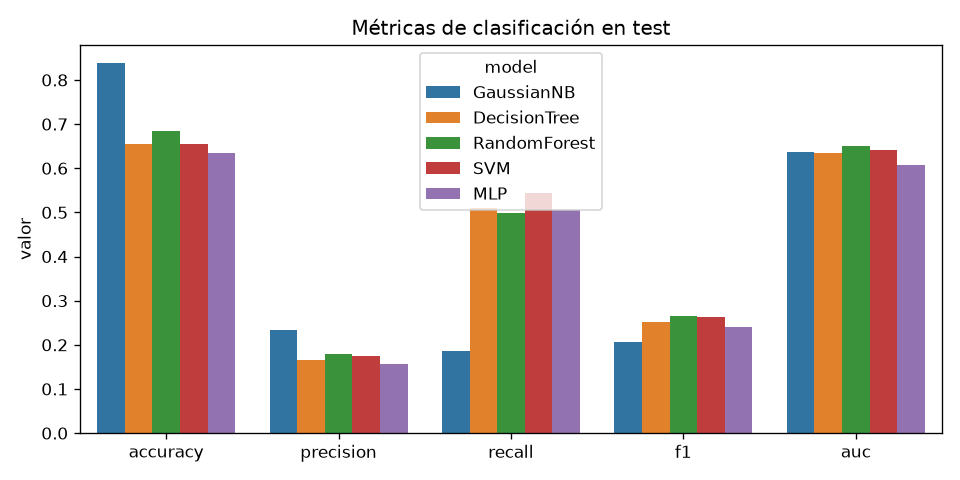
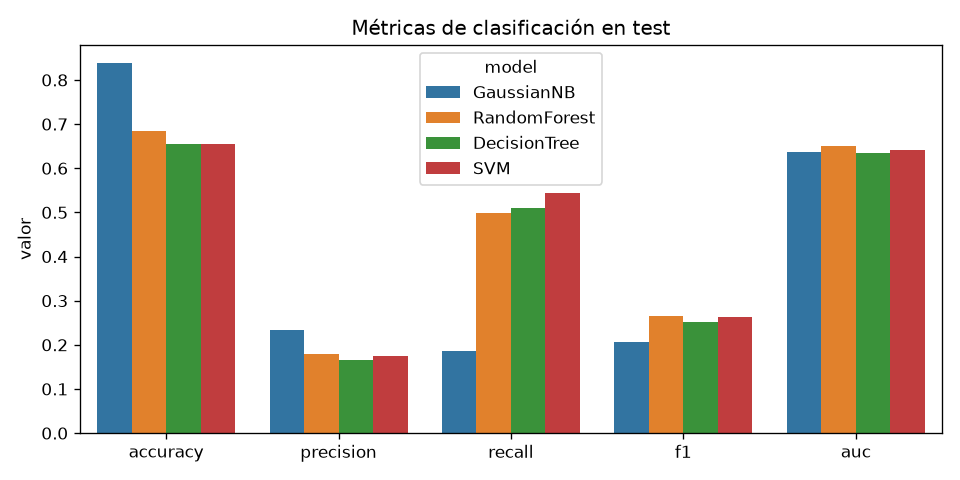
Eliminar la red neuronal (MLP)
Se quita BalancedMLP, su cuadrícula, la curva de pérdida y sus gráficas;
se actualizan app, notebook 03 y figuras regeneradas con train.py.

diff --git a/src/models.py b/src/models.py
@@ -1,6 +1,5 @@
-"""Clasificadores (4 clásicos + MLP), regresores (3), búsqueda de hiperparámetros y CV."""
+"""Clasificadores (4 clásicos), regresores (3), búsqueda de hiperparámetros y CV."""
 
-import numpy as np
 import pandas as pd
 from sklearn.ensemble import RandomForestClassifier, RandomForestRegressor
 from sklearn.model_selection import (
@@ -10,7 +9,6 @@ from sklearn.model_selection import (
     cross_val_score,
 )
 from sklearn.naive_bayes import GaussianNB
-from sklearn.neural_network import MLPClassifier
 from sklearn.pipeline import Pipeline
 from sklearn.svm import SVC, SVR
 from sklearn.tree import DecisionTreeClassifier, DecisionTreeRegressor
@@ -24,7 +22,6 @@ PARAM_GRIDS = {
     "DecisionTree": {"clf__max_depth": [3, 5, 8], "clf__min_samples_leaf": [20, 50]},
     "RandomForest": {"clf__n_estimators": [100, 200], "clf__min_samples_leaf": [10, 20, 40]},
     "SVM": {"clf__C": [0.5, 1.0, 2.0]},
-    "MLP": {"clf__alpha": [1e-4, 1e-2], "clf__hidden_layer_sizes": [(64, 32), (32, 16)]},
     "DecisionTreeRegressor": {"clf__max_depth": [3, 5, 8], "clf__min_samples_leaf": [20, 50]},
     "RandomForestRegressor": {
         "clf__n_estimators": [100, 200],
@@ -34,29 +31,13 @@ PARAM_GRIDS = {
 }
 
 
-class BalancedMLP(MLPClassifier):
-    """MLPClassifier no tiene class_weight: duplica al azar los casos positivos hasta
-    igualar a los negativos solo al entrenar (en cada fit, o sea solo con datos de train)."""
-
-    def fit(self, X, y):
-        rng = np.random.default_rng(self.random_state)
-        y = np.asarray(y)
-        pos, neg = np.flatnonzero(y == 1), np.flatnonzero(y == 0)
-        extra = rng.choice(pos, size=max(len(neg) - len(pos), 0), replace=True)
-        idx = rng.permutation(np.concatenate([np.arange(len(y)), extra]))
-        return super().fit(np.asarray(X)[idx], y[idx])
-
-
 def build_pipeline(est) -> Pipeline:
     """preprocesar (escalar) -> seleccionar top 20 -> modelo. Todo se ajusta solo con train."""
     return Pipeline([("prep", make_preprocessor()), ("select", make_selector(20)), ("clf", est)])
 
 
 def get_models() -> dict[str, Pipeline]:
-    """4 clasificadores clásicos + red neuronal (MLP).
-
-    GaussianNB no soporta class_weight; el MLP balancea con BalancedMLP (sobremuestreo).
-    """
+    """4 clasificadores clásicos. GaussianNB no soporta class_weight."""
     return {
         "GaussianNB": build_pipeline(GaussianNB()),
         "RandomForest": build_pipeline(
@@ -73,15 +54,6 @@ def get_models() -> dict[str, Pipeline]:
             )
         ),
         "SVM": build_pipeline(SVC(kernel="rbf", class_weight="balanced", random_state=SEED)),
-        "MLP": build_pipeline(
-            BalancedMLP(
-                hidden_layer_sizes=(64, 32),
-                early_stopping=True,
-                validation_fraction=0.1,
-                max_iter=300,
-                random_state=SEED,
-            )
-        ),
     }
 
 
@@ -92,9 +64,7 @@ def get_regressors() -> dict[str, Pipeline]:
             DecisionTreeRegressor(max_depth=5, min_samples_leaf=50, random_state=SEED)
         ),
         "RandomForestRegressor": build_pipeline(
-            RandomForestRegressor(
-                n_estimators=200, min_samples_leaf=20, random_state=SEED
-            )
+            RandomForestRegressor(n_estimators=200, min_samples_leaf=20, random_state=SEED)
         ),
         "SVR": build_pipeline(SVR(kernel="rbf")),
     }

diff --git a/src/evaluation.py b/src/evaluation.py
@@ -177,21 +177,6 @@ def plot_regression_bars(metrics: pd.DataFrame) -> None:
     _save(fig, "comparativa_regresion.png")
 
 
-def plot_loss_curve(model: Pipeline, name: str = "MLP") -> None:
-    """Curva de pérdida de entrenamiento (y de validación interna) del MLP."""
-    clf = model.steps[-1][1]
-    fig, ax = plt.subplots(figsize=(7, 4))
-    ax.plot(clf.loss_curve_, label="pérdida (train)")
-    if getattr(clf, "validation_scores_", None) is not None:
-        ax2 = ax.twinx()
-        ax2.plot(clf.validation_scores_, color="C1", label="accuracy (validación)")
-        ax2.set_ylabel("accuracy de validación")
-        ax2.legend(loc="center right")
-    ax.set(title=f"{name}: curva de pérdida", xlabel="época", ylabel="pérdida")
-    ax.legend(loc="upper right")
-    _save(fig, "mlp_loss_curve.png")
-
-
 def plot_importance(table: pd.DataFrame, k: int = 20) -> None:
     fig, ax = plt.subplots(figsize=(7, 4))
     ax.plot(range(1, len(table) + 1), table["acumulada"])

diff --git a/app.py b/app.py
@@ -53,8 +53,8 @@ with tab_modelos:
         show("cv_lineas.png")
     show("matrices_confusion.png")
     st.subheader("Umbral de decisión por modelo")
-    names = ["GaussianNB", "RandomForest", "DecisionTree", "SVM", "MLP"]
-    for pair in (names[:2], names[2:4], names[4:]):
+    names = ["GaussianNB", "RandomForest", "DecisionTree", "SVM"]
+    for pair in (names[:2], names[2:4]):
         cols = st.columns(2)
         for col, n in zip(cols, pair, strict=True):
             with col:
@@ -67,8 +67,6 @@ with tab_modelos:
     with c2:
         show("comparativa_pr.png")
         show("comparativa_metricas.png")
-    st.subheader("Red neuronal (MLP): curva de pérdida")
-    show("mlp_loss_curve.png")
     st.subheader("Regresión (target ordinal NO=0, >30=1, <30=2)")
     st.success(f"Regresor ganador (menor RMSE): **{w.get('winner_regression', '-')}**")
     st.dataframe(load_csv("metrics_regression.csv"), hide_index=True)

diff --git a/train.py b/train.py
@@ -80,7 +80,6 @@ ev.plot_confusion_matrices(models, X_test, y_test)
 all_scores = ev.plot_threshold_curves(models, X_test, y_test)
 ev.plot_comparison(all_scores, y_test)
 ev.plot_metrics_bars(metrics)
-ev.plot_loss_curve(models["MLP"])
 print(metrics.to_string(index=False))
 for name, model in models.items():
     joblib.dump(model, ART / "models" / f"{name}.joblib")
